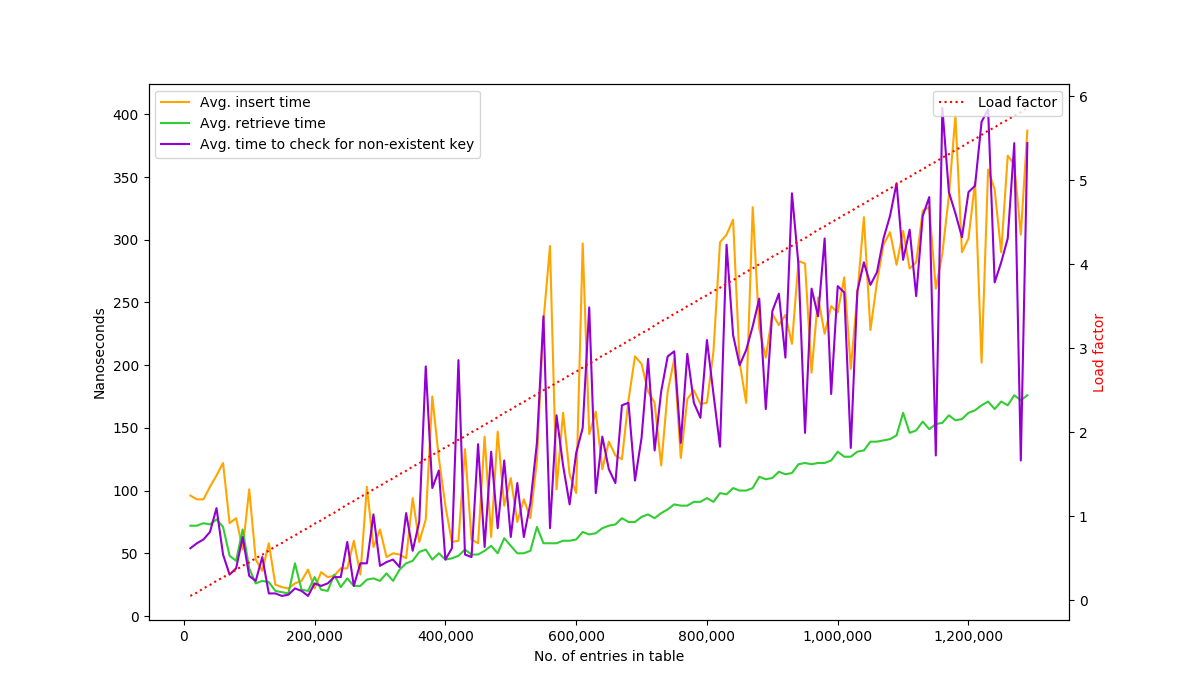
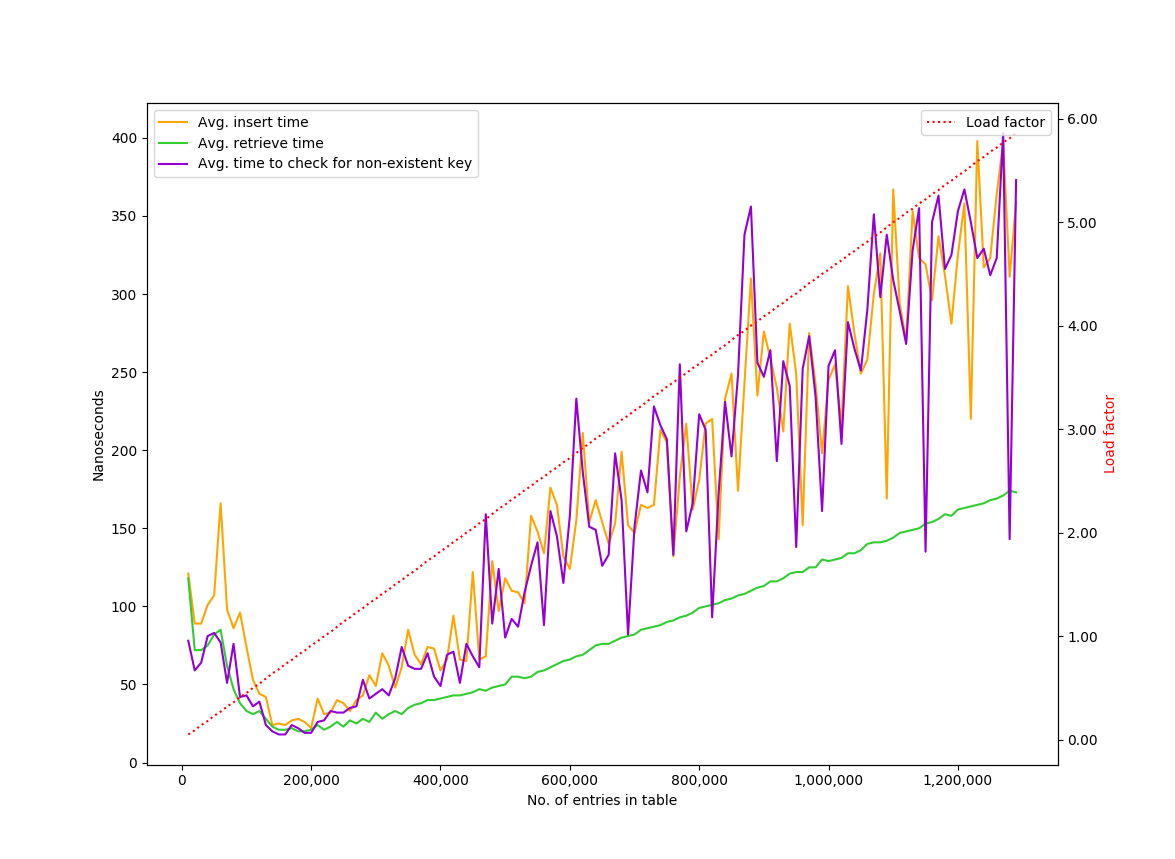
Update performance graph

diff --git a/perf_test/process_output.py b/perf_test/process_output.py
@@ -39,6 +39,8 @@ def main():
     ax2 = ax1.twinx()
 
     ax1.get_xaxis().set_major_formatter(matplotlib.ticker.FuncFormatter(lambda x, p: format(int(x), ',')))
+    ax2.get_yaxis().set_major_formatter(matplotlib.ticker.FormatStrFormatter('%.2f'))
+
     ax1.set_xlabel("No. of entries in table")
     ax1.set_ylabel("Nanoseconds")
     ax2.set_ylabel("Load factor", color='r')
